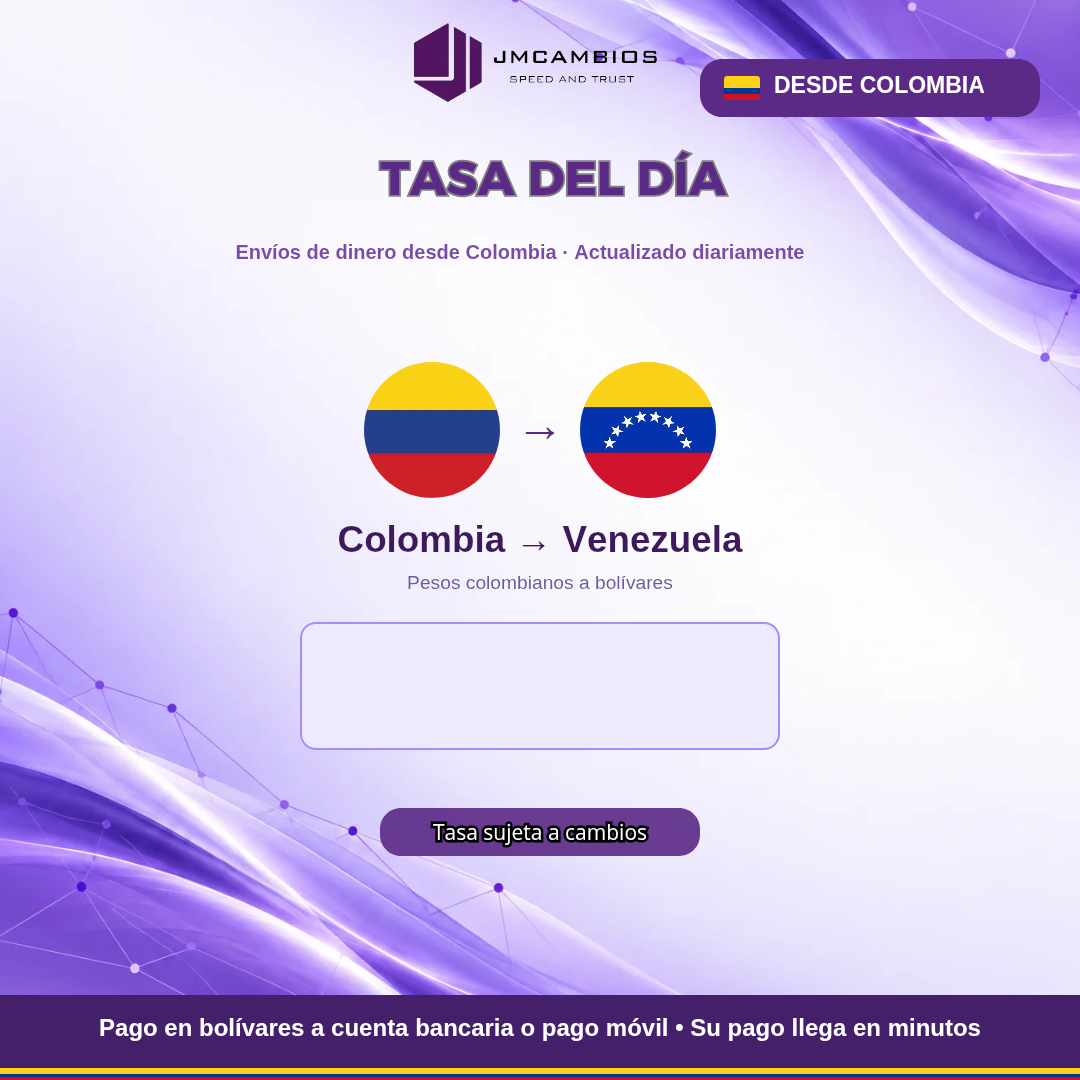
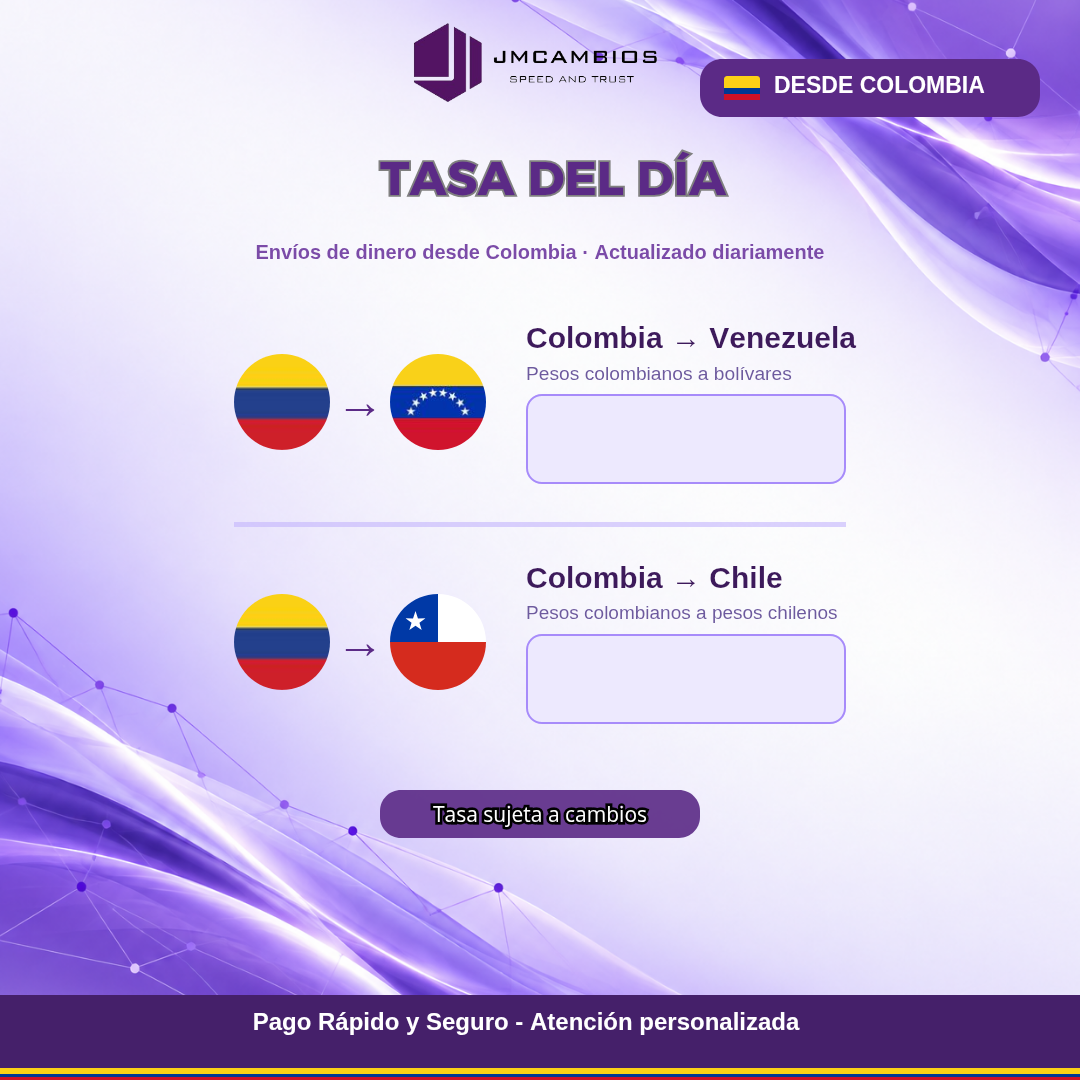
Panel: flyer 'Desde Colombia' nuevo con dos tasas (Venezuela y Chile); Chile se llena con la tasa automática del momento
Claude-Session: https://claude.ai/code/session_01RMbPkgn1UWmsphcd4r7zRi

diff --git a/cotizador/public/panel/index.html b/cotizador/public/panel/index.html
@@ -109,7 +109,7 @@
     <div class="row2"><button class="btn ghost" data-dl="CL">Descargar</button><button class="btn" data-share="CL">Compartir</button></div>
     <label class="f" for="estado-CL">Texto para el estado (Chile)<textarea id="estado-CL" class="estado" rows="4"></textarea></label>
     <div class="row2"><button class="btn ghost" data-reset="CL">Texto automático</button><button class="btn" data-copy="CL">Copiar texto</button></div>
-    <div class="flyer"><h3>Desde Colombia</h3><img id="fly-CO" alt="Flyer de tasas desde Colombia"></div>
+    <div class="flyer"><h3>Desde Colombia</h3><img id="fly-CO" alt="Flyer de tasas desde Colombia (Venezuela y Chile)"></div>
     <div class="row2"><button class="btn ghost" data-dl="CO">Descargar</button><button class="btn" data-share="CO">Compartir</button></div>
     <label class="f" for="estado-CO">Texto para el estado (Colombia)<textarea id="estado-CO" class="estado" rows="4"></textarea></label>
     <div class="row2"><button class="btn ghost" data-reset="CO">Texto automático</button><button class="btn" data-copy="CO">Copiar texto</button></div>

diff --git a/cotizador/public/js/panel.js b/cotizador/public/js/panel.js
@@ -279,7 +279,11 @@ async function drawFlyers() {
     g.fillStyle = '#3D1A5E'; g.textAlign = 'center'; g.textBaseline = 'middle';
     for (const [id, cx, cy] of f.slots) {
       const st = statusOf(id);
-      const text = st === 'ask' ? 'CONSULTAR' : st === 'on' && rateNum(saved.rates[id]) ? saved.rates[id] : '—';
+      let text = st === 'ask' ? 'CONSULTAR' : st === 'on' && rateNum(saved.rates[id]) ? saved.rates[id] : '—';
+      if (ROUTES.find((r) => r.id === id)?.auto && st === 'on') {  // Colombia → Chile: la tasa de este momento (Vita + ganancia)
+        const got = await copPerClp(saved.cocl?.margin_pct ?? '3');
+        text = got ? got.rate.toFixed(2) : 'CONSULTAR';
+      }
       let size = f.size;
       do { g.font = `800 ${size}px Montserrat, sans-serif`; size -= 2; } while (g.measureText(text).width > f.maxW && size > 20);
       g.fillText(text, cx, cy + 3);

diff --git a/cotizador/public/js/rutas.js b/cotizador/public/js/rutas.js
@@ -34,7 +34,7 @@ export const ADVISORS = {
 // Casillas de las plantillas de flyer (1080×1080): [ruta, centro x, centro y].
 export const FLYERS = {
   CL: { file: '/assets/flyer-chile.png', maxW: 280, size: 58, slots: [['cl-ve', 862, 311], ['cl-pe', 862, 421], ['cl-co', 862, 531], ['cl-us', 862, 641], ['cl-br', 862, 751], ['cl-pa', 862, 861]] },
-  CO: { file: '/assets/flyer-colombia.png', maxW: 420, size: 84, slots: [['co-ve', 540, 686]] },
+  CO: { file: '/assets/flyer-colombia.png', maxW: 280, size: 60, slots: [['co-ve', 686, 439], ['co-cl', 686, 679]] },
   EU: { file: '/assets/flyer-europa.png', maxW: 420, size: 84, slots: [['eu-ve', 540, 686]] },
 };
 
